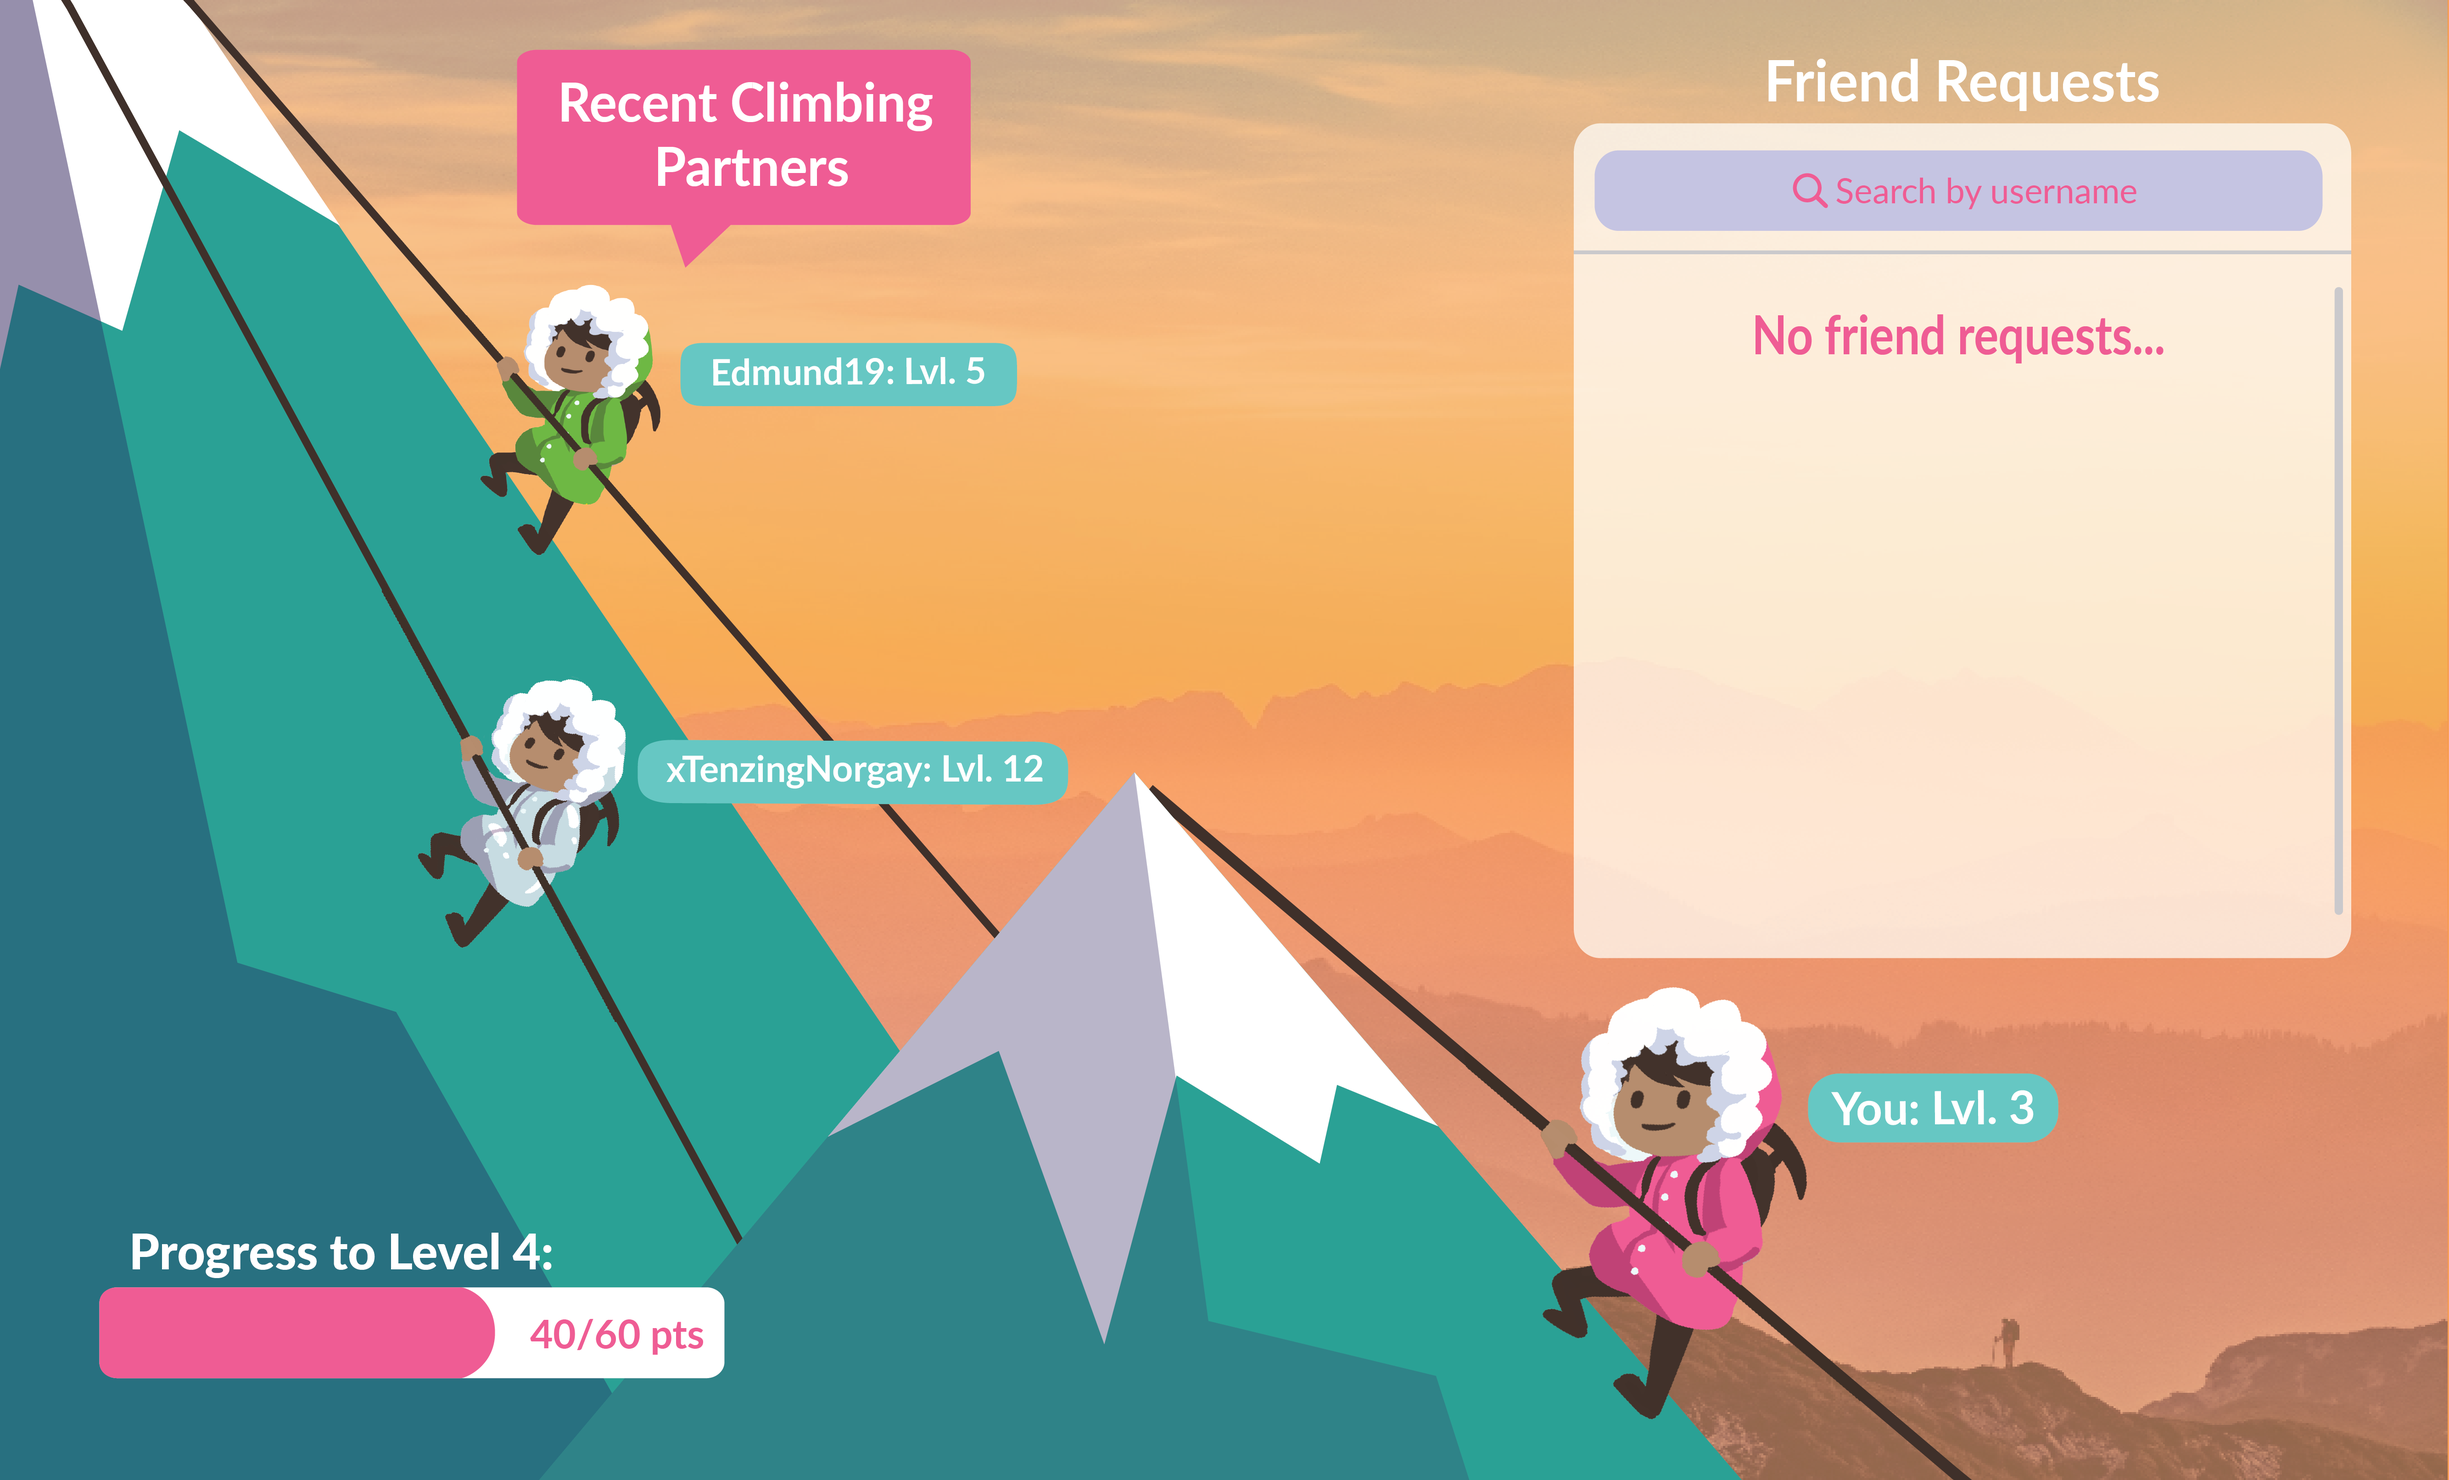
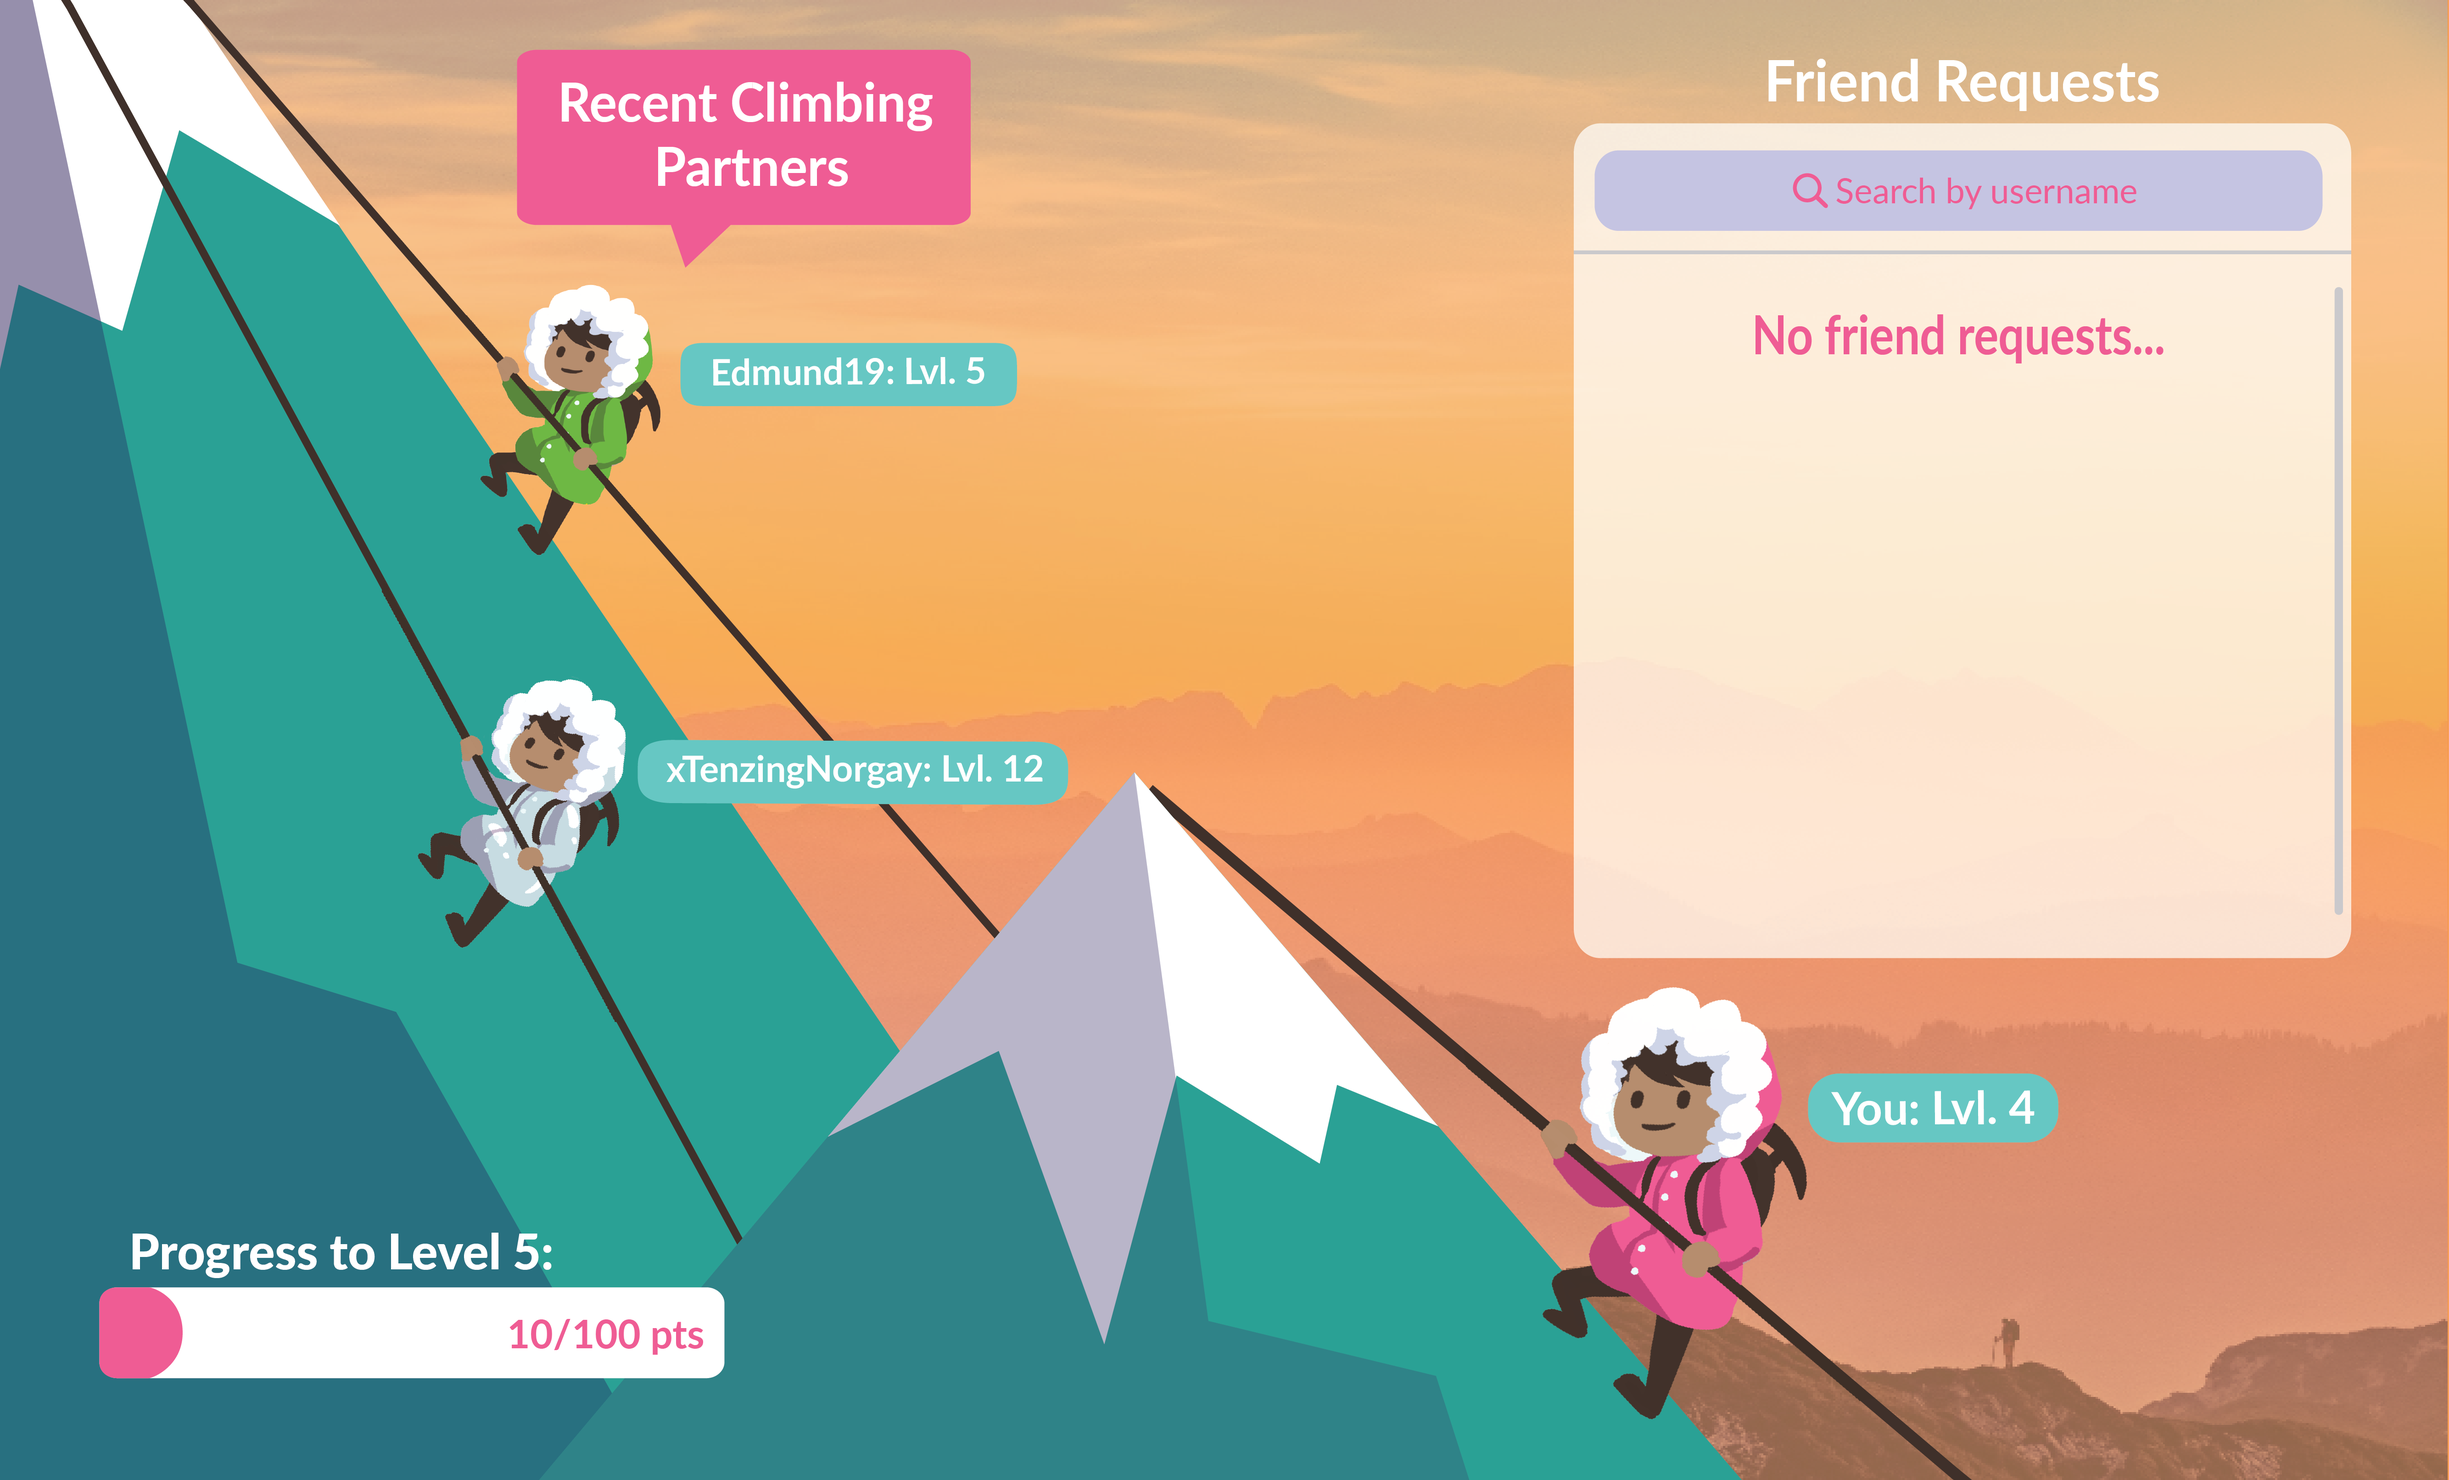
hardcode progress

Changed region(s): [[0.0622, 0.8372, 0.2489, 0.9302]]

diff --git a/stage0/find-friends.html b/stage0/find-friends.html
@@ -5,7 +5,7 @@
             body {
                 height: 774px;
                 width: 1280px;
-                background-image: url("img/FriendsPage.png");
+                background-image: url("img/FindFriends.png");
                 background-size: contain;
                 background-repeat: no-repeat;
                 margin: 0;

diff --git a/stage1/find-friends.html b/stage1/find-friends.html
@@ -5,7 +5,7 @@
             body {
                 height: 774px;
                 width: 1280px;
-                background-image: url("img/FriendsPage.png");
+                background-image: url("img/FindFriends.png");
                 background-size: contain;
                 background-repeat: no-repeat;
                 margin: 0;
